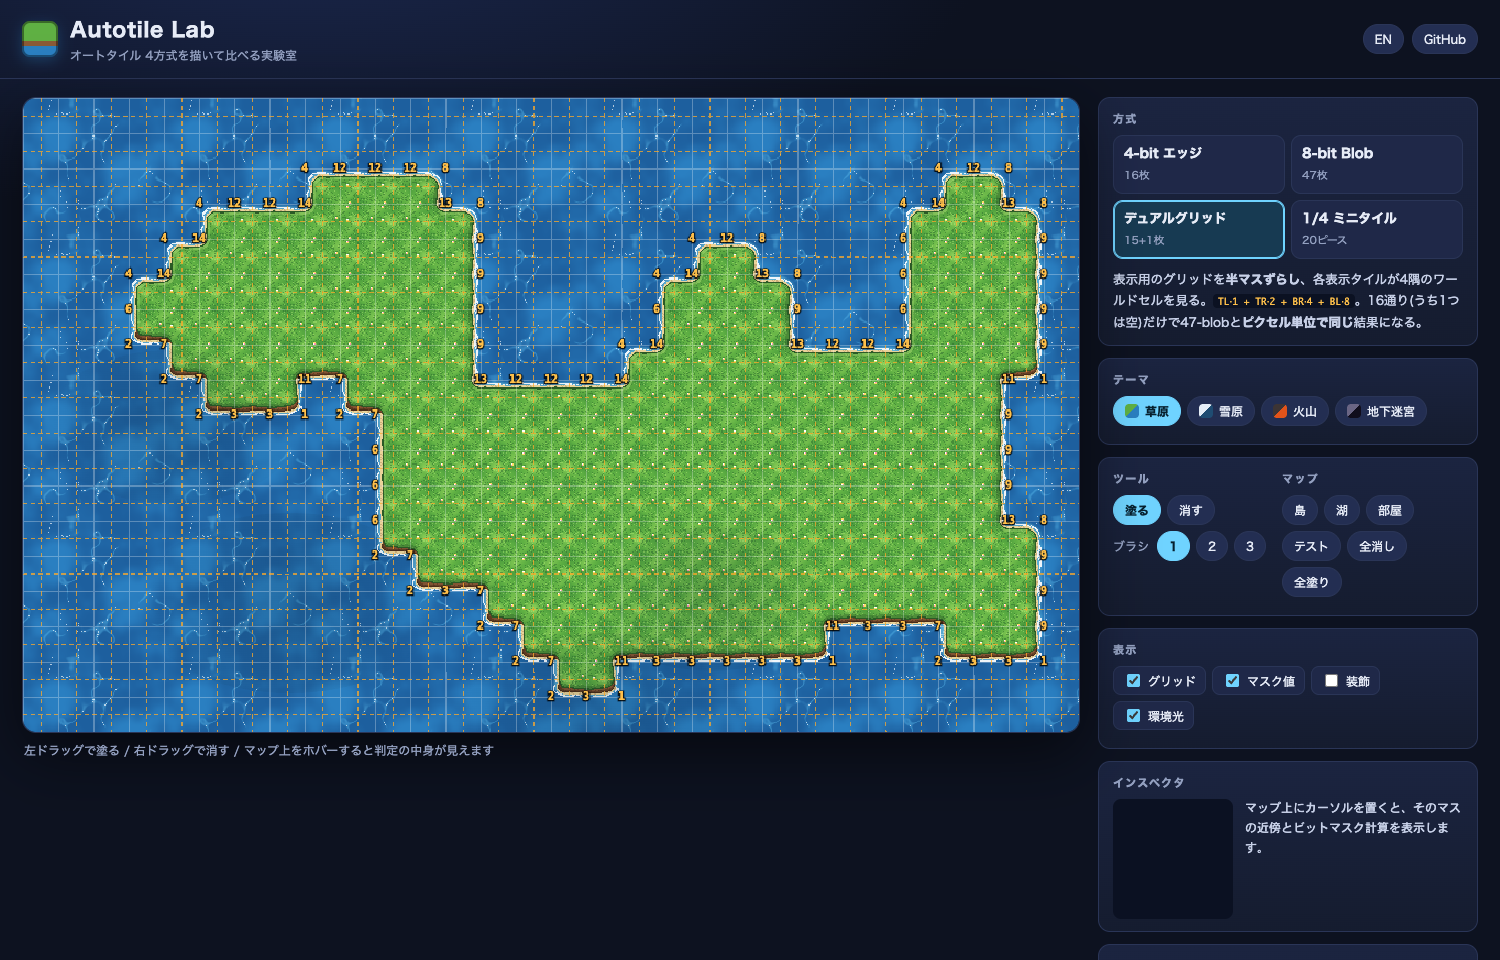
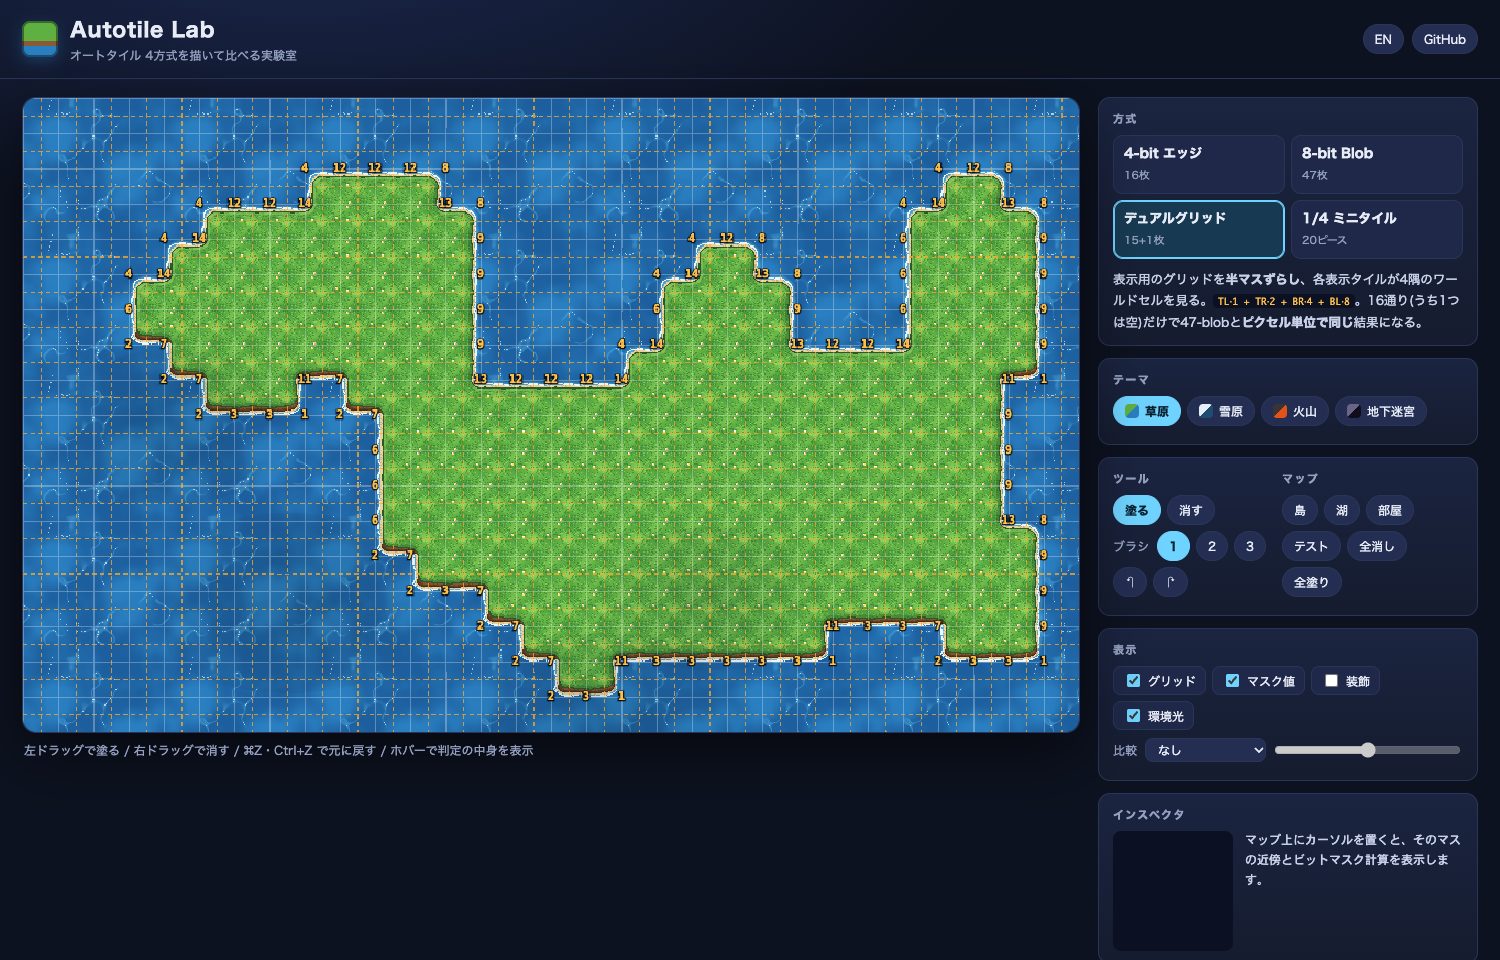
Add stroke interpolation, undo/redo, split compare view, sheet PNG export
- Bresenham line between pointer samples so fast drags leave no gaps
- Undo/redo (buttons + Cmd/Ctrl+Z, Shift+Z / Y), 100 steps
- Compare: re-render the right side with a second method, draggable divider (?cmp=)
- Download the current tile sheet as PNG
- Dev server honors PORT; README (JA/EN) documents new features with screenshots

diff --git a/src/main.js b/src/main.js
@@ -39,16 +39,17 @@ function applyLang() {
   document.documentElement.lang = state.lang;
   document.querySelectorAll('[data-i18n]').forEach(el => { el.textContent = tr()[el.dataset.i18n]; });
   $('#lang').textContent = state.lang === 'ja' ? 'EN' : '日本語';
-  buildMethods(); buildThemes(); drawSheet(); drawInspector();
+  buildMethods(); buildThemes(); buildCompare(); drawSheet(); drawInspector();
 }
 
-$('#methods').addEventListener('click', e => { const b = e.target.closest('[data-m]'); if (!b) return; state.method = b.dataset.m; buildMethods(); drawSheet(); drawInspector(); });
+$('#methods').addEventListener('click', e => { const b = e.target.closest('[data-m]'); if (!b) return; state.method = b.dataset.m; buildMethods(); buildCompare(); drawSheet(); drawInspector(); });
 $('#themes').addEventListener('click', e => { const b = e.target.closest('[data-t]'); if (!b) return; state.theme = b.dataset.t; buildThemes(); drawSheet(); });
 $('#lang').onclick = () => { state.lang = state.lang === 'ja' ? 'en' : 'ja'; localStorage.setItem('lang', state.lang); applyLang(); };
 document.querySelectorAll('.tool').forEach(b => b.onclick = () => { state.tool = +b.dataset.tool; document.querySelectorAll('.tool').forEach(x => x.classList.toggle('on', x === b)); });
 document.querySelectorAll('.brush').forEach(b => b.onclick = () => { state.brush = +b.dataset.b; document.querySelectorAll('.brush').forEach(x => x.classList.toggle('on', x === b)); });
 document.querySelectorAll('.preset').forEach(b => b.onclick = () => {
   const p = b.dataset.p;
+  pushUndo();
   if (p === 'clear') state.grid = new Grid(W, HH);
   else if (p === 'fill') { state.grid = new Grid(W, HH); state.grid.data.fill(1); }
   else state.grid = PRESETS[p](W, HH);
@@ -62,27 +63,100 @@ for (const k of Object.keys(state.opt)) {
 }
 
 // ---------------- painting ----------------
-let painting = null;
+let painting = null, last = null;
 function cellFromEvent(e) {
   const r = mapC.getBoundingClientRect();
   const px = (e.clientX - r.left) / r.width * mapC.width, py = (e.clientY - r.top) / r.height * mapC.height;
   return { x: Math.floor(px / T), y: Math.floor(py / T), vx: Math.round(px / T), vy: Math.round(py / T) };
 }
-function paintAt(c, v) {
+function stamp(c, v) {
   const b = state.brush, o = Math.floor((b - 1) / 2);
   let dirty = false;
   for (let dy = 0; dy < b; dy++) for (let dx = 0; dx < b; dx++) {
     const x = c.x + dx - o, y = c.y + dy - o;
-    if (state.grid.get(x, y) !== v && x >= 0 && y >= 0 && x < W && y < HH) { state.grid.set(x, y, v); dirty = true; }
+    if (x >= 0 && y >= 0 && x < W && y < HH && state.grid.get(x, y) !== v) { state.grid.set(x, y, v); dirty = true; }
   }
+  return dirty;
+}
+/** 前回位置から現在位置まで Bresenham で線を引く (速いドラッグでも途切れない) */
+function strokeTo(c, v) {
+  let dirty = false;
+  if (!last) dirty = stamp(c, v);
+  else {
+    let x0 = last.x, y0 = last.y;
+    const dx = Math.abs(c.x - x0), dy = -Math.abs(c.y - y0), sx = x0 < c.x ? 1 : -1, sy = y0 < c.y ? 1 : -1;
+    let err = dx + dy;
+    for (;;) {
+      dirty = stamp({ x: x0, y: y0 }, v) || dirty;
+      if (x0 === c.x && y0 === c.y) break;
+      const e2 = 2 * err;
+      if (e2 >= dy) { err += dy; x0 += sx; }
+      if (e2 <= dx) { err += dx; y0 += sy; }
+    }
+  }
+  last = c;
   if (dirty) changed();
 }
 function changed() { decorList = placeDecor(state.grid); drawInspector(); }
+
+// ---------------- undo / redo ----------------
+const undoStack = [], redoStack = [];
+function pushUndo() { undoStack.push(state.grid.data.slice()); if (undoStack.length > 100) undoStack.shift(); redoStack.length = 0; }
+function swapFrom(from, to) {
+  if (!from.length) return;
+  to.push(state.grid.data.slice());
+  state.grid = new Grid(W, HH, from.pop());
+  changed();
+}
+const undo = () => swapFrom(undoStack, redoStack), redo = () => swapFrom(redoStack, undoStack);
+$('#undo').onclick = undo; $('#redo').onclick = redo;
+window.addEventListener('keydown', e => {
+  if (!(e.metaKey || e.ctrlKey)) return;
+  const k = e.key.toLowerCase();
+  if (k === 'z' && !e.shiftKey) { e.preventDefault(); undo(); }
+  else if ((k === 'z' && e.shiftKey) || k === 'y') { e.preventDefault(); redo(); }
+});
+
 mapC.addEventListener('contextmenu', e => e.preventDefault());
-mapC.addEventListener('pointerdown', e => { painting = e.button === 2 ? 0 : state.tool; mapC.setPointerCapture(e.pointerId); paintAt(cellFromEvent(e), painting); });
-mapC.addEventListener('pointermove', e => { const c = cellFromEvent(e); state.hover = c; if (painting !== null) paintAt(c, painting); drawInspector(); });
-mapC.addEventListener('pointerup', () => { painting = null; });
+mapC.addEventListener('pointerdown', e => {
+  painting = e.button === 2 ? 0 : state.tool; last = null;
+  pushUndo();
+  mapC.setPointerCapture(e.pointerId);
+  strokeTo(cellFromEvent(e), painting);
+});
+mapC.addEventListener('pointermove', e => {
+  const c = cellFromEvent(e); state.hover = c;
+  if (painting !== null) strokeTo(c, painting);
+  drawInspector();
+});
+const endStroke = () => { painting = null; last = null; };
+mapC.addEventListener('pointerup', endStroke);
+mapC.addEventListener('pointercancel', endStroke);
 mapC.addEventListener('pointerleave', () => { state.hover = null; drawInspector(); });
+
+// ---------------- compare (split view) ----------------
+const cmpSel = $('#cmp'), cmpRange = $('#cmp-x');
+const cmpCanvas = document.createElement('canvas'); cmpCanvas.width = W * T; cmpCanvas.height = HH * T;
+const cmpCtx = cmpCanvas.getContext('2d');
+let cmpInit = params.get('cmp') || '';
+function buildCompare() {
+  const cur = cmpSel.value || cmpInit; cmpInit = '';
+  cmpSel.innerHTML = `<option value="">${tr().cmpOff}</option>` + Object.keys(METHODS).filter(id => id !== state.method)
+    .map(id => `<option value="${id}">${tr().m[id].name}</option>`).join('');
+  cmpSel.value = cur !== state.method && METHODS[cur] ? cur : '';
+  cmpRange.disabled = !cmpSel.value;
+}
+cmpSel.onchange = () => { cmpRange.disabled = !cmpSel.value; };
+
+// ---------------- sheet download ----------------
+$('#dl').onclick = () => {
+  const src = assets(state.theme).sheets[state.method][0];
+  src.toBlob(b => {
+    const a = document.createElement('a');
+    a.href = URL.createObjectURL(b); a.download = `autotile-${state.method}-${state.theme}.png`;
+    a.click(); setTimeout(() => URL.revokeObjectURL(a.href), 1000);
+  }, 'image/png');
+};
 
 // ---------------- tile sheet panel ----------------
 const sheetC = $('#sheet'), sctx = sheetC.getContext('2d');
@@ -178,6 +252,20 @@ const t0 = performance.now();
 function frame() {
   const time = (performance.now() - t0) / 1000;
   drawMap(ctx, state.grid, state.method, state.theme, time, { ...state.opt, decorList });
+  if (cmpSel.value) {
+    // 右側だけ比較対象の方式で描き直す / right side re-rendered with the other method
+    drawMap(cmpCtx, state.grid, cmpSel.value, state.theme, time, { ...state.opt, decorList });
+    const sx = Math.round(mapC.width * cmpRange.value / 100);
+    ctx.drawImage(cmpCanvas, sx, 0, mapC.width - sx, mapC.height, sx, 0, mapC.width - sx, mapC.height);
+    ctx.fillStyle = '#fff'; ctx.fillRect(sx - 1, 0, 2, mapC.height);
+    ctx.font = 'bold 13px system-ui, sans-serif'; ctx.textBaseline = 'top';
+    const tag = (txt, x, align) => {
+      ctx.textAlign = align; const w = ctx.measureText(txt).width + 14;
+      ctx.fillStyle = 'rgba(8,12,24,.78)'; ctx.fillRect(align === 'right' ? x - w : x, 8, w, 22);
+      ctx.fillStyle = '#fff'; ctx.fillText(txt, align === 'right' ? x - 7 : x + 7, 12);
+    };
+    tag(tr().m[state.method].name, sx - 8, 'right'); tag(tr().m[cmpSel.value].name, sx + 8, 'left');
+  }
   // hover highlight
   if (state.hover) {
     ctx.save(); ctx.strokeStyle = '#6fd3ff'; ctx.lineWidth = 2;

diff --git a/src/i18n.js b/src/i18n.js
@@ -6,10 +6,11 @@ export const STR = {
     islands: '島', lake: '湖', rooms: '部屋', test: 'テスト', clear: '全消し', fill: '全塗り',
     grid: 'グリッド', labels: 'マスク値', decor: '装飾', clouds: '環境光', lost: '情報欠落を表示',
     meadow: '草原', snow: '雪原', volcano: '火山', dungeon: '地下迷宮',
-    hint: '左ドラッグで塗る / 右ドラッグで消す / マップ上をホバーすると判定の中身が見えます',
+    hint: '左ドラッグで塗る / 右ドラッグで消す / ⌘Z・Ctrl+Z で元に戻す / ホバーで判定の中身を表示',
     hoverNone: 'マップ上にカーソルを置くと、そのマスの近傍とビットマスク計算を表示します。',
     empty: '空マス (描画しない)',
     lostNote: '赤丸 = 4-bit では表現できない内角',
+    compare: '比較', cmpOff: 'なし',
     m: {
       edge16: { name: '4-bit エッジ', count: '16枚', desc: '上下左右4方向だけを見る最も単純な方式。<code>N·1 + E·2 + S·4 + W·8</code> の0〜15がそのままタイル番号。斜めを見ないので<b>内角(凹んだ角)が描けない</b>。「情報欠落を表示」で確認できます。' },
       blob47: { name: '8-bit Blob', count: '47枚', desc: '8近傍を見る方式。256通りのうち「隣接する2辺が両方埋まっている時だけ角ビットを数える」という縮約で<b>47種</b>に減る。内角も正しく描ける定番方式。' },
@@ -24,10 +25,11 @@ export const STR = {
     islands: 'Islands', lake: 'Lake', rooms: 'Rooms', test: 'Test', clear: 'Clear', fill: 'Fill',
     grid: 'Grid', labels: 'Mask values', decor: 'Decor', clouds: 'Ambience', lost: 'Show lost info',
     meadow: 'Meadow', snow: 'Snow', volcano: 'Volcano', dungeon: 'Dungeon',
-    hint: 'Left-drag to paint / right-drag to erase / hover to inspect the bitmask',
+    hint: 'Left-drag to paint / right-drag to erase / ⌘Z or Ctrl+Z to undo / hover to inspect the bitmask',
     hoverNone: 'Hover a cell to see its neighbourhood and how the bitmask is computed.',
     empty: 'Empty cell (nothing drawn)',
     lostNote: 'Red circles = inner corners that 4-bit cannot express',
+    compare: 'Compare', cmpOff: 'off',
     m: {
       edge16: { name: '4-bit edge', count: '16 tiles', desc: 'Looks only at the 4 cardinal neighbours. <code>N·1 + E·2 + S·4 + W·8</code> (0–15) is the tile index. Because diagonals are ignored it <b>cannot draw inner corners</b> — turn on “Show lost info”.' },
       blob47: { name: '8-bit blob', count: '47 tiles', desc: 'Looks at all 8 neighbours. A corner bit only counts when both adjacent edges are set, which collapses 256 combinations into <b>47</b>. The classic “complete” set.' },

diff --git a/index.html b/index.html
@@ -51,6 +51,9 @@
           <div class="row"><span class="lbl" data-i18n="brush"></span>
             <button class="chip brush on" data-b="1">1</button><button class="chip brush" data-b="2">2</button><button class="chip brush" data-b="3">3</button>
           </div>
+          <div class="row">
+            <button class="chip" id="undo" title="Ctrl/⌘+Z">↶</button><button class="chip" id="redo" title="Ctrl/⌘+Shift+Z">↷</button>
+          </div>
         </div>
         <div>
           <h2 data-i18n="map"></h2>
@@ -74,6 +77,11 @@
           <label class="tg"><input type="checkbox" id="o-clouds" checked><span data-i18n="clouds"></span></label>
           <label class="tg" id="lost-wrap"><input type="checkbox" id="o-lost"><span data-i18n="lost"></span></label>
         </div>
+        <div class="row cmp-row">
+          <span class="lbl" data-i18n="compare"></span>
+          <select id="cmp"></select>
+          <input type="range" id="cmp-x" min="5" max="95" value="50">
+        </div>
       </div>
 
       <div class="card">
@@ -85,7 +93,7 @@
       </div>
 
       <div class="card">
-        <h2><span data-i18n="sheet"></span> <span id="sheet-meta" class="meta"></span></h2>
+        <h2 class="sheet-h"><span><span data-i18n="sheet"></span> <span id="sheet-meta" class="meta"></span></span><button class="chip small" id="dl">PNG ⬇</button></h2>
         <div class="sheet-wrap"><canvas id="sheet"></canvas></div>
       </div>
     </aside>

diff --git a/style.css b/style.css
@@ -48,3 +48,8 @@ code { background: #0b1122; padding: 1px 5px; border-radius: 4px; color: var(--a
 .sheet-wrap { background: repeating-conic-gradient(#1a2038 0 25%, #141a2e 0 50%) 0 0 / 16px 16px; border-radius: 8px; padding: 8px; text-align: center; }
 #sheet { image-rendering: pixelated; max-width: 100%; }
 @media (max-width: 980px) { main { grid-template-columns: 1fr; } .stage { position: static; } }
+select { background: #232e52; color: var(--text); border: 1px solid var(--line); border-radius: 8px; padding: 4px 8px; font: inherit; font-size: 12px; }
+.cmp-row { margin-top: 8px; }
+.cmp-row input[type=range] { flex: 1; accent-color: var(--acc); }
+.sheet-h { display: flex; justify-content: space-between; align-items: center; }
+.chip.small { padding: 3px 9px; font-size: 11px; text-transform: none; letter-spacing: 0; }

diff --git a/README.md b/README.md
@@ -46,15 +46,22 @@
 
 ## 遊び方
 
-- **左ドラッグ** で地形を塗る、**右ドラッグ** で消す（ブラシ 1〜3）
+- **左ドラッグ** で地形を塗る、**右ドラッグ** で消す（ブラシ 1〜3）。速く動かしても Bresenham の直線補間で途切れません
+- **⌘Z / Ctrl+Z** で元に戻す、**⌘⇧Z / Ctrl+Y** でやり直し（ボタンもあり、最大100手）
 - 右上の「方式」で 4 方式を切り替え。同じマップがその方式のルールで描き直されます
 - マップ上に **カーソルを置く** と、インスペクタにそのマスの近傍・ビットマスクの計算式・選ばれたタイルが表示され、タイルシート上の該当タイルが水色の枠で光ります
 - 表示オプション
   - **グリッド**: ワールド格子（白）。デュアルグリッドでは表示格子（橙の点線）も表示
   - **マスク値**: 各マスのビットマスクを数字で表示
   - **情報欠落を表示**（4-bit のみ）: 4-bit では描けない内角を赤丸で表示
+- **比較**: 2つ目の方式を選ぶと、マップの右側だけをその方式で描き直す左右分割表示になります。スライダーで境界を動かせます
+- **PNG ⬇**: 今の方式・テーマのタイルシートを PNG で保存。自分のゲームの素材としてそのまま使えます
 - テーマ: 草原 / 雪原 / 火山 / 地下迷宮。マップ: 島 / 湖 / 部屋 / テスト（全パターン入り）
-- URL パラメータ: `?m=dual16&t=snow&grid&labels&lang=en` など
+- URL パラメータ: `?m=dual16&t=snow&grid&labels&lang=en&cmp=blob47` など
+
+![比較表示](docs/images/ui-compare.png)
+
+> 左が 4-bit（赤丸＝失われる内角）、右が 8-bit Blob。同じデータを境界線の左右で別の方式で描いています。
 
 ![テーマ](docs/images/themes.png)
 
@@ -149,6 +156,10 @@ drawImage(sheet, ..., i*T - T/2, j*T - T/2);   // 半タイルずらして描く
 ![dual のオフセット](docs/images/dual-offset.png)
 
 > 白がデータの格子、橙の点線が表示の格子。数字は各表示タイルのコーナーマスクです。
+
+アプリで「グリッド」と「マスク値」をオンにすると、マップ全体で同じ表示になります:
+
+![dual の UI](docs/images/ui-dual.png)
 
 **たった 16 通りで 47-blob と同じ絵が出せる理由** は次の節で説明します。
 
@@ -284,7 +295,7 @@ src/
   noise.js          周期ハッシュ / value noise / fBm
   render.js         Canvas 2D 描画、オーバーレイ (グリッド・マスク値・欠落表示)
   maps.js           マップ生成 (島・湖・部屋・テストパターン)
-  main.js           UI・入力・インスペクタ
+  main.js           UI・入力 (直線補間)・Undo/Redo・比較表示・インスペクタ・PNG保存
   i18n.js           日本語 / 英語
 test/test.mjs       ロジックと「3方式が完全一致」の検証 (Node)
 tools/

diff --git a/README.en.md b/README.en.md
@@ -45,15 +45,22 @@ Reference: [Autotile Tilesets Explained (SpriteCook)](https://www.spritecook.ai/
 
 ## How to use
 
-- **Left-drag** paints terrain, **right-drag** erases (brush 1–3).
+- **Left-drag** paints terrain, **right-drag** erases (brush 1–3). Strokes are joined with Bresenham lines, so fast drags leave no gaps.
+- **⌘Z / Ctrl+Z** undoes, **⌘⇧Z / Ctrl+Y** redoes (buttons too, up to 100 steps).
 - Use **Method** to switch between the four techniques. The same map is re-rendered with that technique's rules.
 - **Hover** a cell. The inspector shows its neighbourhood, the bitmask formula and the chosen tile, and the tile is outlined in the tile sheet.
 - View options:
   - **Grid**: the world grid (white). Dual-grid also shows the display grid (orange, dashed).
   - **Mask values**: each cell's bitmask as a number.
   - **Show lost info** (4-bit only): red circles mark the inner corners 4-bit cannot draw.
+- **Compare**: pick a second technique to split the map. The right side is re-rendered with it, and a slider moves the divider.
+- **PNG ⬇** saves the current technique's tile sheet in the current theme, ready to use as a game asset.
 - Themes: Meadow / Snow / Volcano / Dungeon. Maps: Islands / Lake / Rooms / Test (contains every case).
-- URL parameters, e.g. `?m=dual16&t=snow&grid&labels&lang=en`.
+- URL parameters, e.g. `?m=dual16&t=snow&grid&labels&lang=en&cmp=blob47`.
+
+![compare view](docs/images/ui-compare.png)
+
+> Left: 4-bit (red circles = lost inner corners). Right: 8-bit blob. Same data, two techniques either side of the divider.
 
 ![themes](docs/images/themes.png)
 
@@ -139,6 +146,10 @@ drawImage(sheet, ..., i*T - T/2, j*T - T/2); // drawn half a tile up-left
 <img src="docs/images/sheet-dual16.png" alt="dual-grid sheet" width="420">
 
 ![dual offset](docs/images/dual-offset.png)
+
+With "Grid" and "Mask values" on, the app shows the same overlay across the whole map:
+
+![dual UI](docs/images/ui-dual.png)
 
 ---
 
@@ -248,7 +259,7 @@ src/
   noise.js          periodic hash / value noise / fBm
   render.js         Canvas 2D rendering and overlays
   maps.js           map presets (islands, lake, rooms, test pattern)
-  main.js           UI, input, inspector
+  main.js           UI, input (line interpolation), undo/redo, compare view, inspector, PNG export
   i18n.js           Japanese / English strings
 test/test.mjs       logic tests and the pixel-equivalence check (Node)
 tools/
